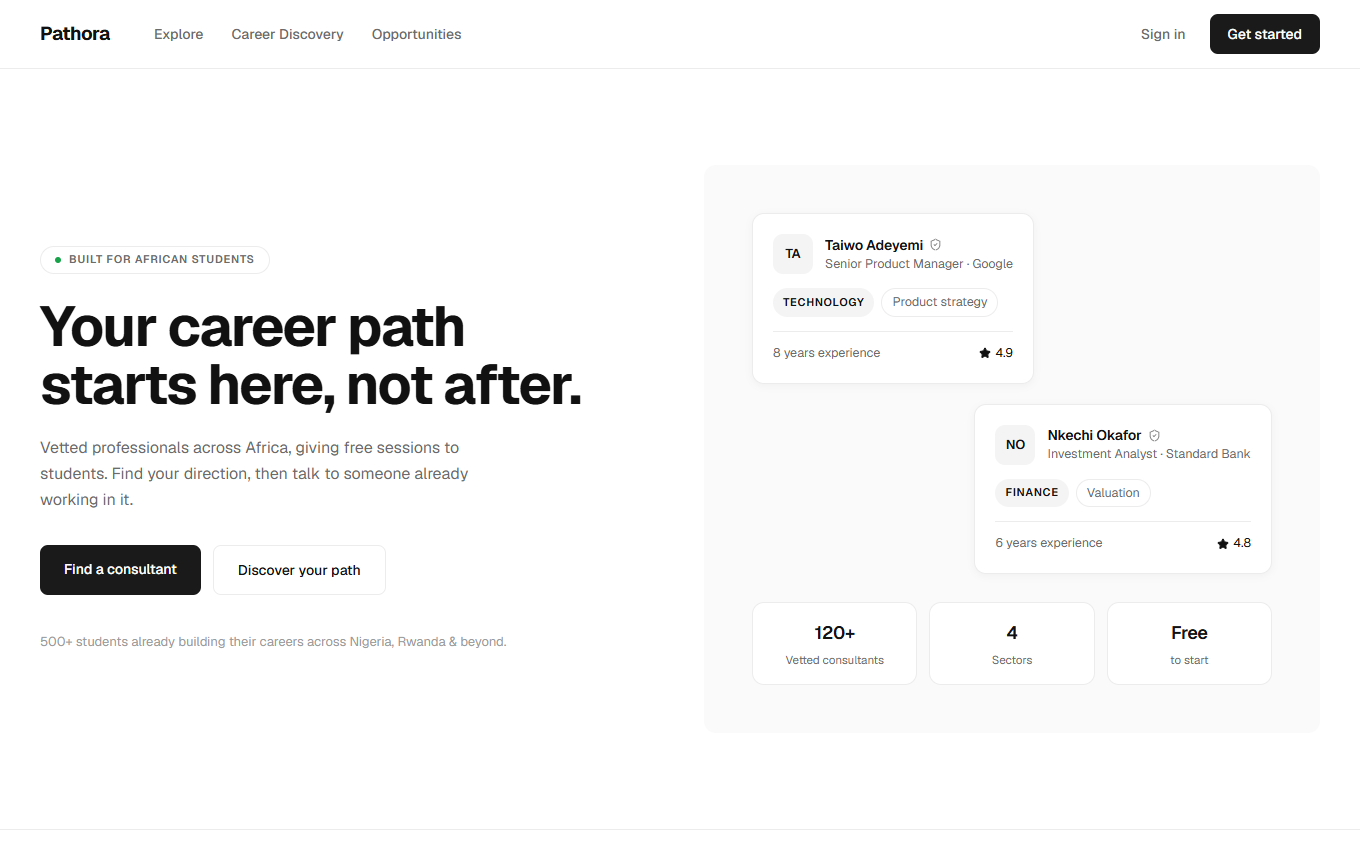
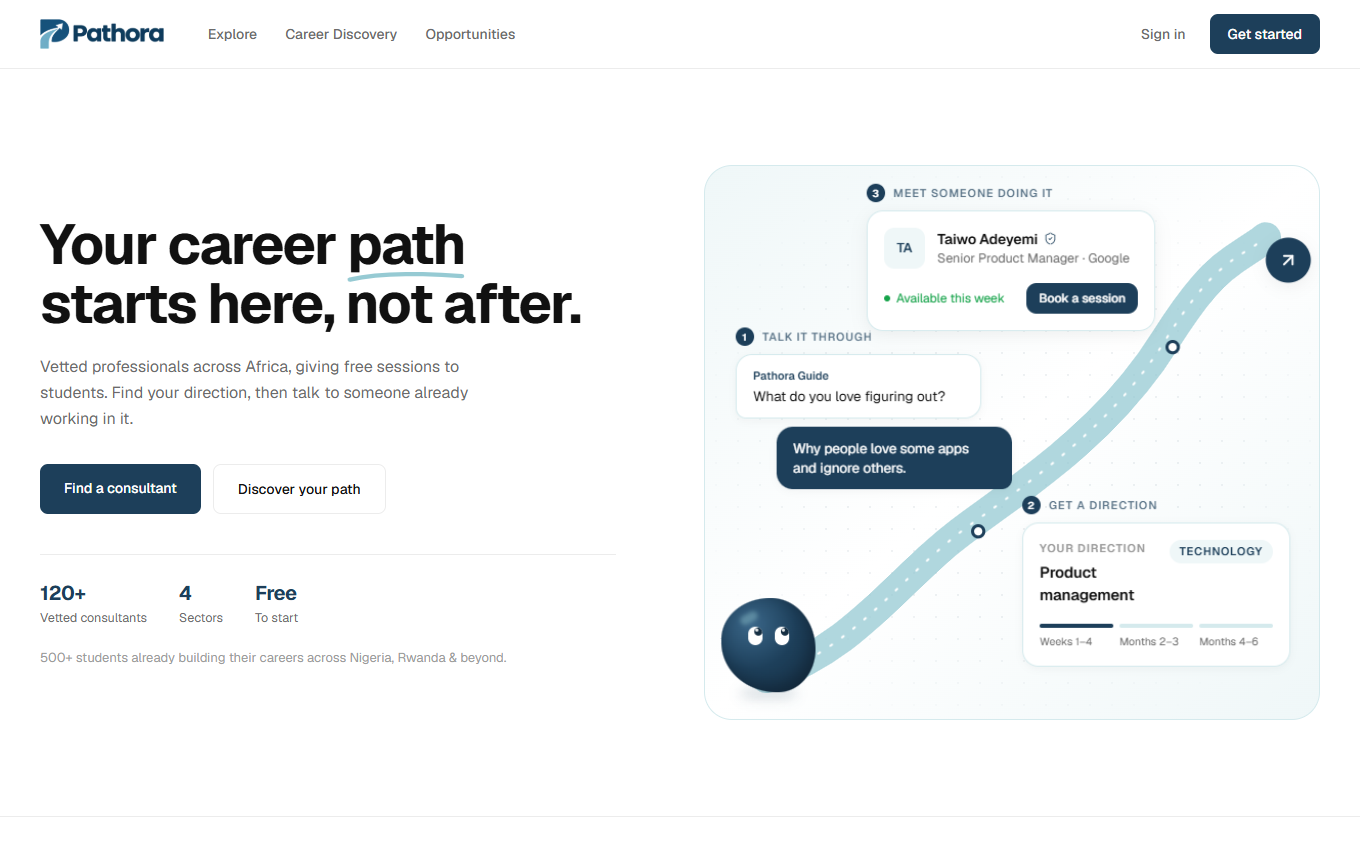
Update README screenshots to the current design

diff --git a/README.md b/README.md
@@ -133,51 +133,95 @@ https://www.figma.com/design/xgHTY50iOunFJr3s896yQ0/Pathora?node-id=0-1&t=TDUUwp
 
 ### Screenshots of the app
 
+Captured from the running app against a seeded database. The student, mentor and admin accounts are test accounts.
+
+#### Public pages
+
 **Landing page**
 
 ![Landing page](docs/screenshots/01-landing.png)
 
+The full landing page, with how it works, the four sectors and student stories, is in [docs/screenshots/02-landing-full.png](docs/screenshots/02-landing-full.png).
+
 **Explore consultants**
 
-![Explore consultants](docs/screenshots/02-explore.png)
+![Explore consultants](docs/screenshots/03-explore.png)
 
 **Explore, filtered by sector**
 
-![Explore filtered to Technology](docs/screenshots/03-explore-sector-filter.png)
+![Explore filtered to Technology](docs/screenshots/04-explore-sector-filter.png)
 
-**Consultant profile**
+#### Student
 
-![Consultant profile](docs/screenshots/04-consultant-profile.png)
+**Sign up**
 
-**Booking: choosing a day and time**
+![Sign up](docs/screenshots/05-sign-up.png)
 
-![Booking slot picker](docs/screenshots/05-booking-slot-picker.png)
+**Research consent**, shown once after sign-up (the wording is still a draft)
 
-**Booking: confirmation**
+![Research consent](docs/screenshots/06-consent.png)
 
-![Booking confirmed](docs/screenshots/06-booking-confirmed.png)
+**Career discovery: chatting with the Pathora Guide**
 
-**Career discovery: a question**
-
-![Discovery question](docs/screenshots/07-discover-question.png)
+![Discovery chat](docs/screenshots/07-discovery-chat.png)
 
 **Career discovery: reviewing the answers**
 
-![Reviewing screen](docs/screenshots/08-discover-reviewing.png)
+![Reviewing screen](docs/screenshots/08-discovery-reviewing.png)
 
 **Career discovery: results**
 
-![Discovery results](docs/screenshots/09-discover-results.png)
+![Discovery results](docs/screenshots/09-discovery-results.png)
 
-The full results page, with the roadmap and the matched consultants, is in [docs/screenshots/10-discover-results-full.png](docs/screenshots/10-discover-results-full.png).
+The full results page, with the three-year roadmap and three consultants in the matched sector, is in [docs/screenshots/10-discovery-results-full.png](docs/screenshots/10-discovery-results-full.png).
+
+**Consultant profile**
+
+![Consultant profile](docs/screenshots/11-consultant-profile.png)
+
+**Booking: choosing a day and time**, generated from the mentor's weekly hours and shown in the student's timezone
+
+![Booking slot picker](docs/screenshots/12-booking-slot-picker.png)
+
+**Booking: confirmation**
+
+![Booking confirmed](docs/screenshots/13-booking-confirmed.png)
 
 **Student dashboard** (sample data)
 
-![Student dashboard](docs/screenshots/11-dashboard.png)
+![Student dashboard](docs/screenshots/14-student-dashboard.png)
 
-**Session room** (interface mock-up)
+**Session room** (interface mock-up; live video is not built yet)
 
-![Session room](docs/screenshots/12-session-room.png)
+![Session room](docs/screenshots/21-session-room.png)
+
+#### Mentor
+
+**Applying as a mentor**, with LinkedIn, X and other links
+
+![Mentor application](docs/screenshots/15-mentor-application.png)
+
+**Setting weekly hours**
+
+![Mentor availability](docs/screenshots/16-mentor-availability.png)
+
+**Mentor console**: a student's request waiting to be confirmed. Mentors see the student's first name only.
+
+![Mentor console](docs/screenshots/20-mentor-console.png)
+
+**The approved mentor's public profile**
+
+![Mentor public profile](docs/screenshots/19-mentor-public-profile.png)
+
+#### Admin
+
+**Overview**, with the study's measures
+
+![Admin overview](docs/screenshots/17-admin-overview.png)
+
+**Reviewing a mentor application** and setting the mentor's interest profile, which the bridge uses for matching
+
+![Admin mentor review](docs/screenshots/18-admin-mentor-review.png)
 
 ### Database (MongoDB)
 
@@ -232,7 +276,7 @@ Also add `AUTH_SECRET` (and the Google keys, if used) in Vercel. For Google sign
 
 ## Video demo
 
-https://docs.google.com/document/d/1gMY85q9OEPCydZcQWp3O5KaEkkg3dY5oFVZUjwY3qaY/edit?usp=sharing
+https://youtu.be/562JOBwNsII
 
 ## Code files
 
